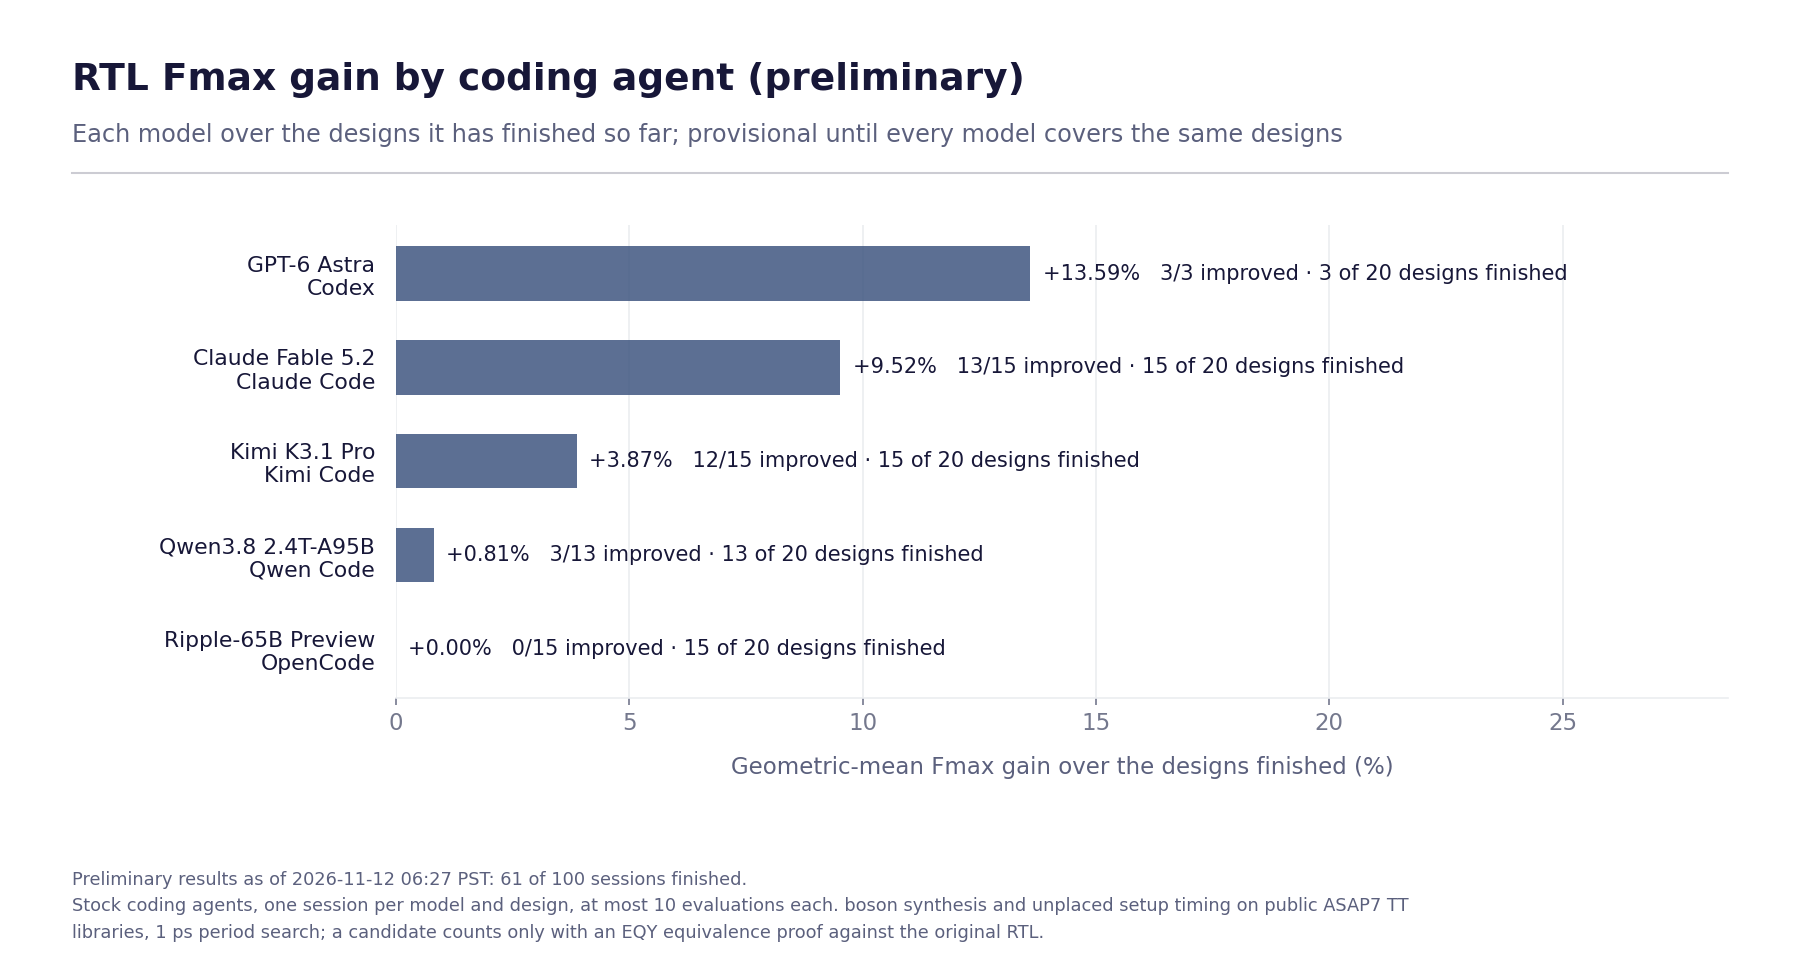
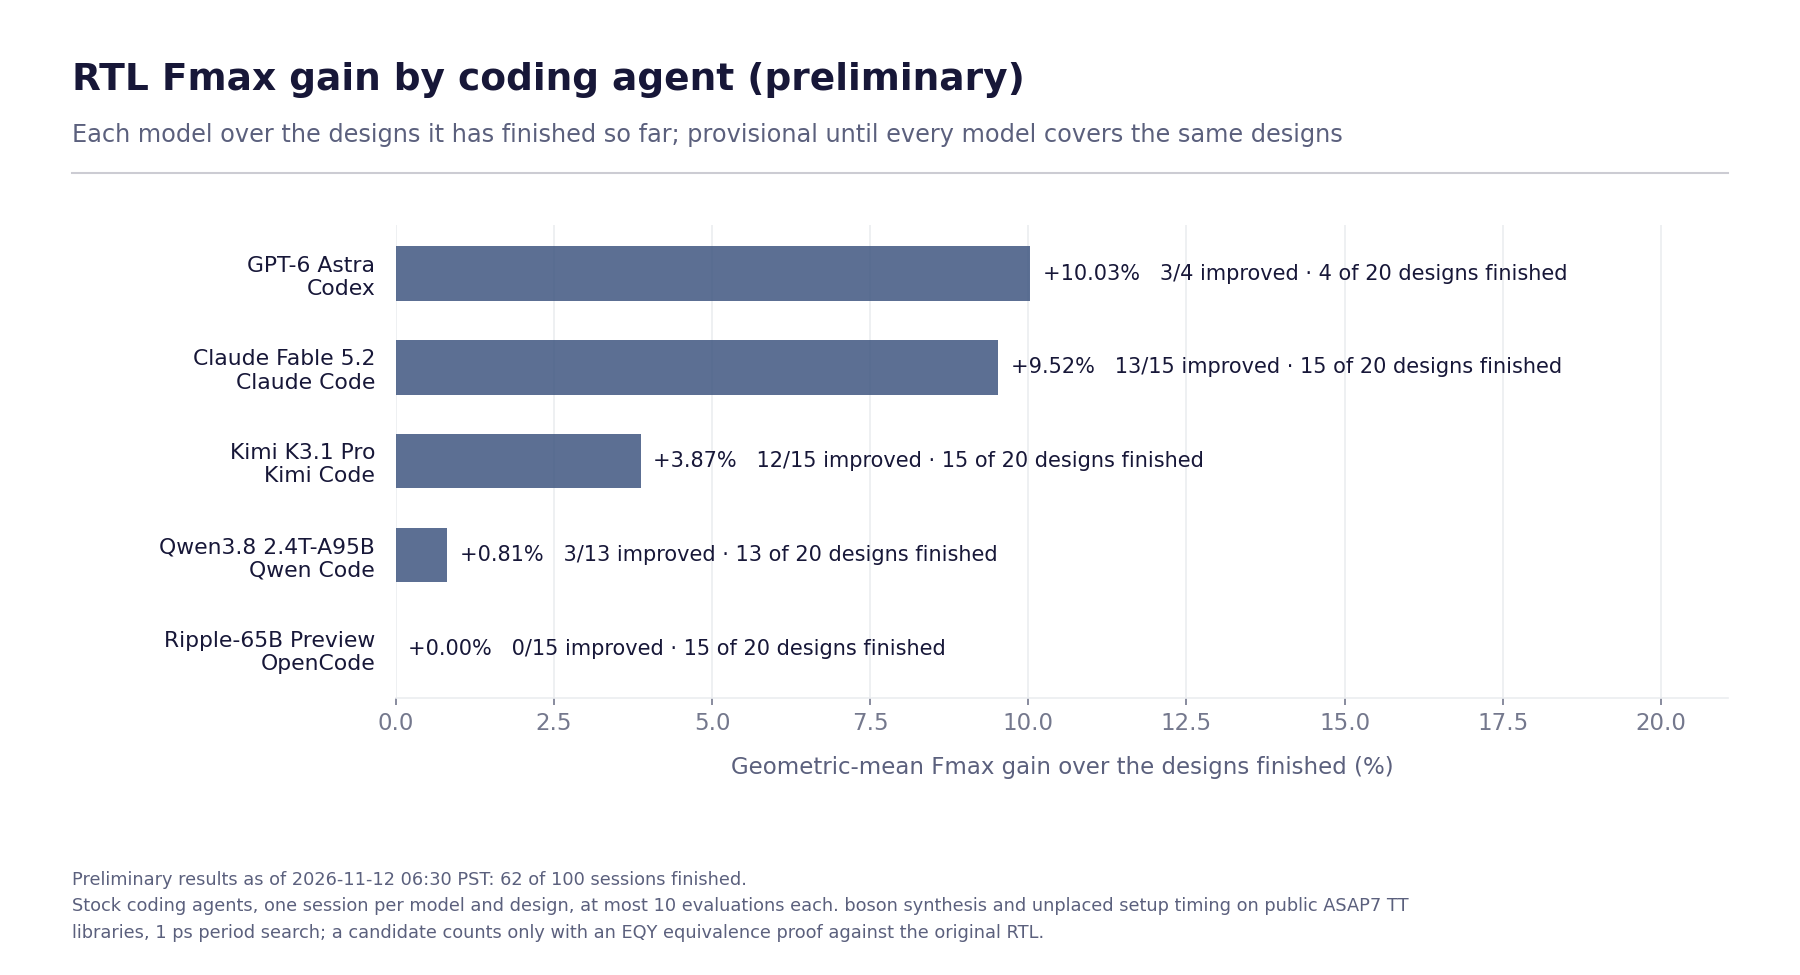
Refresh preliminary results: 62 of 100 sessions finished
Data as of 2026-11-12 06:30 PST.

diff --git a/README.md b/README.md
@@ -21,14 +21,14 @@ accepted only when it is proven equivalent and faster than the session's best so
 ## Results
 
 <!-- results:start -->
-**Status:** 61 of 100 sessions finished (5 models, 20 designs), as of 2026-11-12 06:27 PST. 12 interrupted attempts are excluded from these results while awaiting a valid replacement.
+**Status:** 62 of 100 sessions finished (5 models, 20 designs), as of 2026-11-12 06:30 PST. 12 interrupted attempts are excluded from these results while awaiting a valid replacement.
 
 ### Coverage
 
 | Model | Developer | Harness | Access | Sessions finished |
 |---|---|---|---|---:|
 | Claude Fable 5.2 | Anthropic | Claude Code 2.1.322 | Official CLI signed in to a subscription | 15 / 20 |
-| GPT-6 Astra | OpenAI | Codex 0.154.0 | Official CLI signed in to a subscription | 3 / 20 |
+| GPT-6 Astra | OpenAI | Codex 0.154.0 | Official CLI signed in to a subscription | 4 / 20 |
 | Kimi K3.1 Pro | Moonshot AI | Kimi Code 2.5.2 | OpenRouter, pinned to Moonshot AI's own endpoint (MXFP4), fallbacks disabled | 15 / 20 |
 | Qwen3.8 2.4T-A95B | Qwen (Alibaba) | Qwen Code 0.27.1 | OpenRouter, one pinned provider (SiliconFlow, FP8) | 13 / 20 |
 | Ripple-65B Preview | Ricursive AI | OpenCode 1.19.5 | Self-hosted (SGLang 0.5.19, BF16) for its first 15 designs; OpenRouter pinned to PrimeIntellect (BF16) for later sessions | 15 / 20 |
@@ -37,7 +37,7 @@ accepted only when it is proven equivalent and faster than the session's best so
 
 | Model | Harness | Designs finished | Fmax gain (geomean) | Designs improved | Mean evaluations | Candidates not proven |
 |---|---|---:|---:|---:|---:|---:|
-| GPT-6 Astra | Codex | 3 / 20 | +13.59% | 3 / 3 | 9.0 | 33% (9 / 27) |
+| GPT-6 Astra | Codex | 4 / 20 | +10.03% | 3 / 4 | 8.2 | 42% (14 / 33) |
 | Claude Fable 5.2 | Claude Code | 15 / 20 | +9.52% | 13 / 15 | 4.9 | 37% (27 / 73) |
 | Kimi K3.1 Pro | Kimi Code | 15 / 20 | +3.87% | 12 / 15 | 5.3 | 56% (44 / 79) |
 | Qwen3.8 2.4T-A95B | Qwen Code | 13 / 20 | +0.81% | 3 / 13 | 1.1 | 80% (12 / 15) |
@@ -61,7 +61,7 @@ Fmax gain is the geometric mean of each finished session's Fmax ratio (baseline 
 | `serial_link.default` | 0.305 | 3 | 0.272 | +12.13% | Kimi K3.1 Pro |
 | `spi_host.default` | 0.475 | 3 | 0.400 | +18.75% | Kimi K3.1 Pro |
 | `snitch_cluster.minimal` | 1.288 | 4 | 1.200 | +7.33% | Kimi K3.1 Pro |
-| `ita.default` | 0.903 | 4 | 0.900 | +0.33% | Claude Fable 5.2 |
+| `ita.default` | 0.903 | 5 | 0.900 | +0.33% | Claude Fable 5.2 |
 | `mempool.minpool` | 2.869 | 3 | 2.342 | +22.50% | GPT-6 Astra |
 | `ara.default` | 1.064 | 3 | 0.942 | +12.95% | Claude Fable 5.2 |
 | `pulp_c910.default` | 1.005 | 3 | 0.930 | +8.06% | GPT-6 Astra |
@@ -74,9 +74,9 @@ Fmax gain is the geometric mean of each finished session's Fmax ratio (baseline 
 
 Counts over every finished session of the models above. They describe what happened; with one session per model and design they do not establish causes or rankings.
 
-- 197 candidates evaluated: 78 accepted, 23 proven equivalent but not faster than the session's best, 95 not proven (68 with a partition EQY could not prove, 13 at the proof deadline, 14 over the proof memory budget), 1 failed to compile or measure.
-- Of 61 finished sessions, 36 ended with the agent finishing on its own, 24 ran to the time budget and 1 ended with an agent error.
-- Sessions used 3.2 of the 10 allowed evaluations on average; 4 used all 10.
+- 203 candidates evaluated: 78 accepted, 24 proven equivalent but not faster than the session's best, 100 not proven (69 with a partition EQY could not prove, 17 at the proof deadline, 14 over the proof memory budget), 1 failed to compile or measure.
+- Of 62 finished sessions, 36 ended with the agent finishing on its own, 25 ran to the time budget and 1 ended with an agent error.
+- Sessions used 3.3 of the 10 allowed evaluations on average; 4 used all 10.
 - Largest single gain so far: `cvfpu.fp32_fma` by Claude Fable 5.2, 1.401 ns to 1.070 ns (+30.93% Fmax).
 - No finished session has improved `nvdla.top` yet.
 <!-- results:end -->
